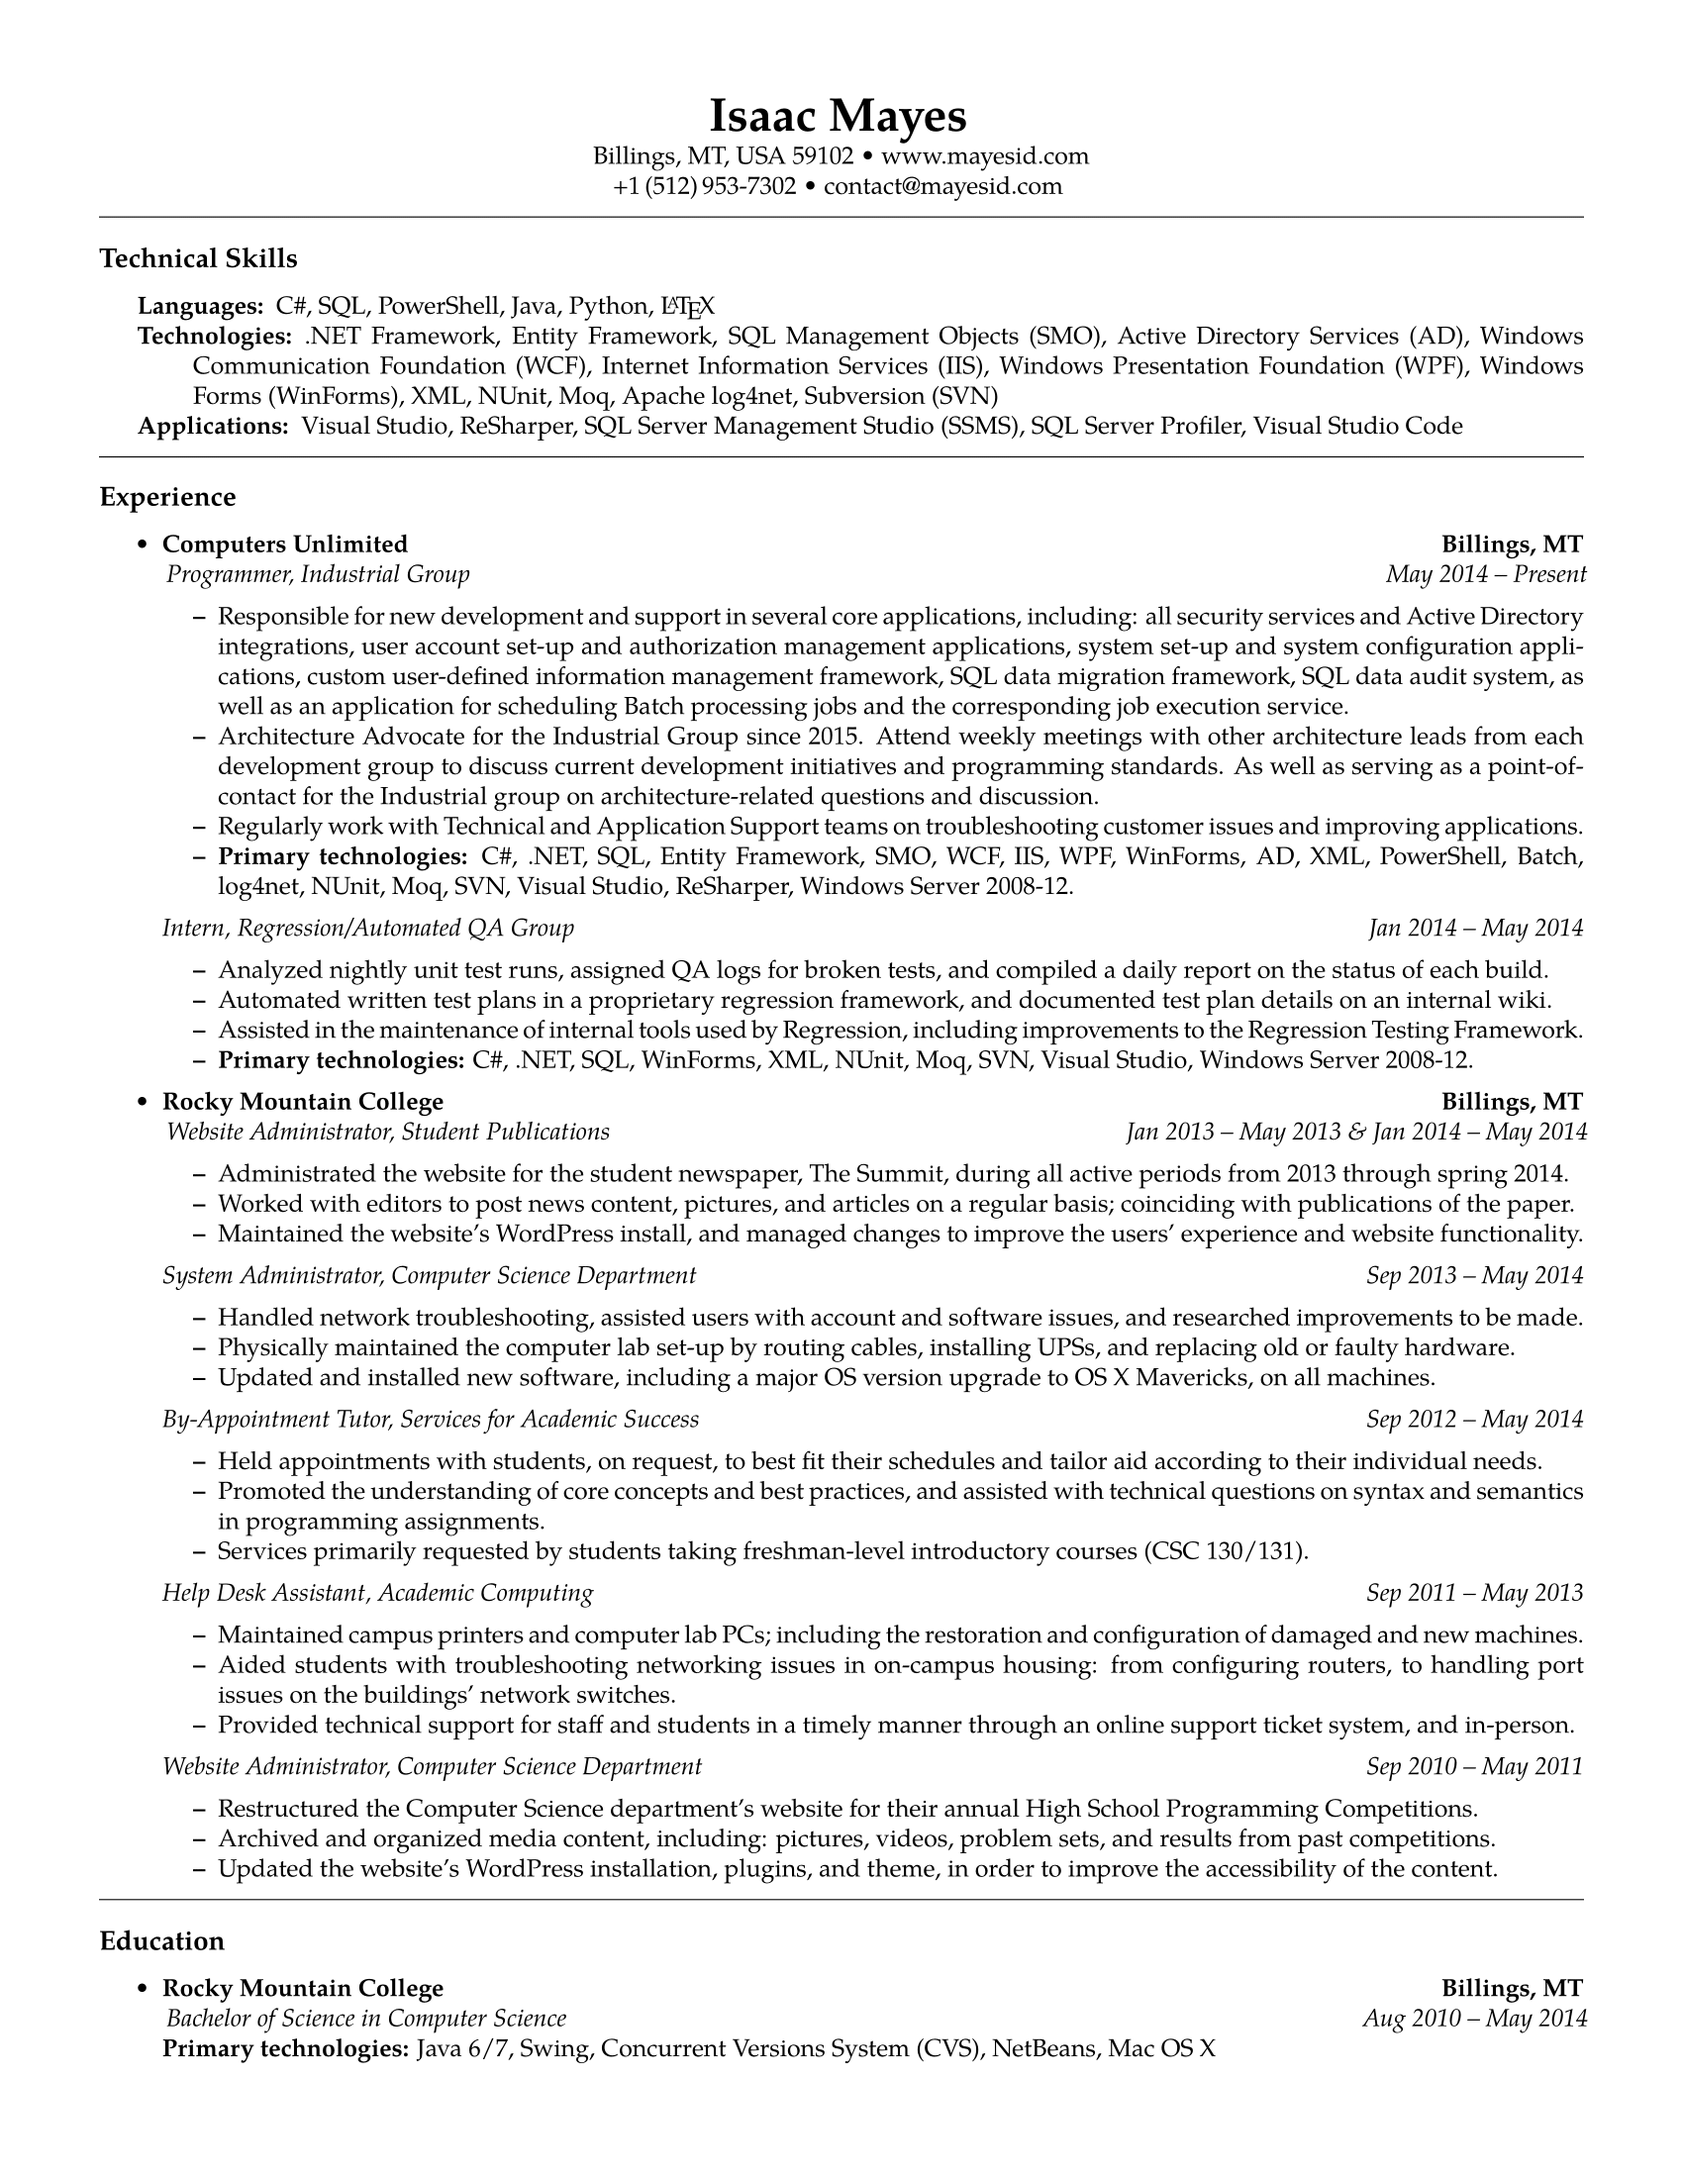
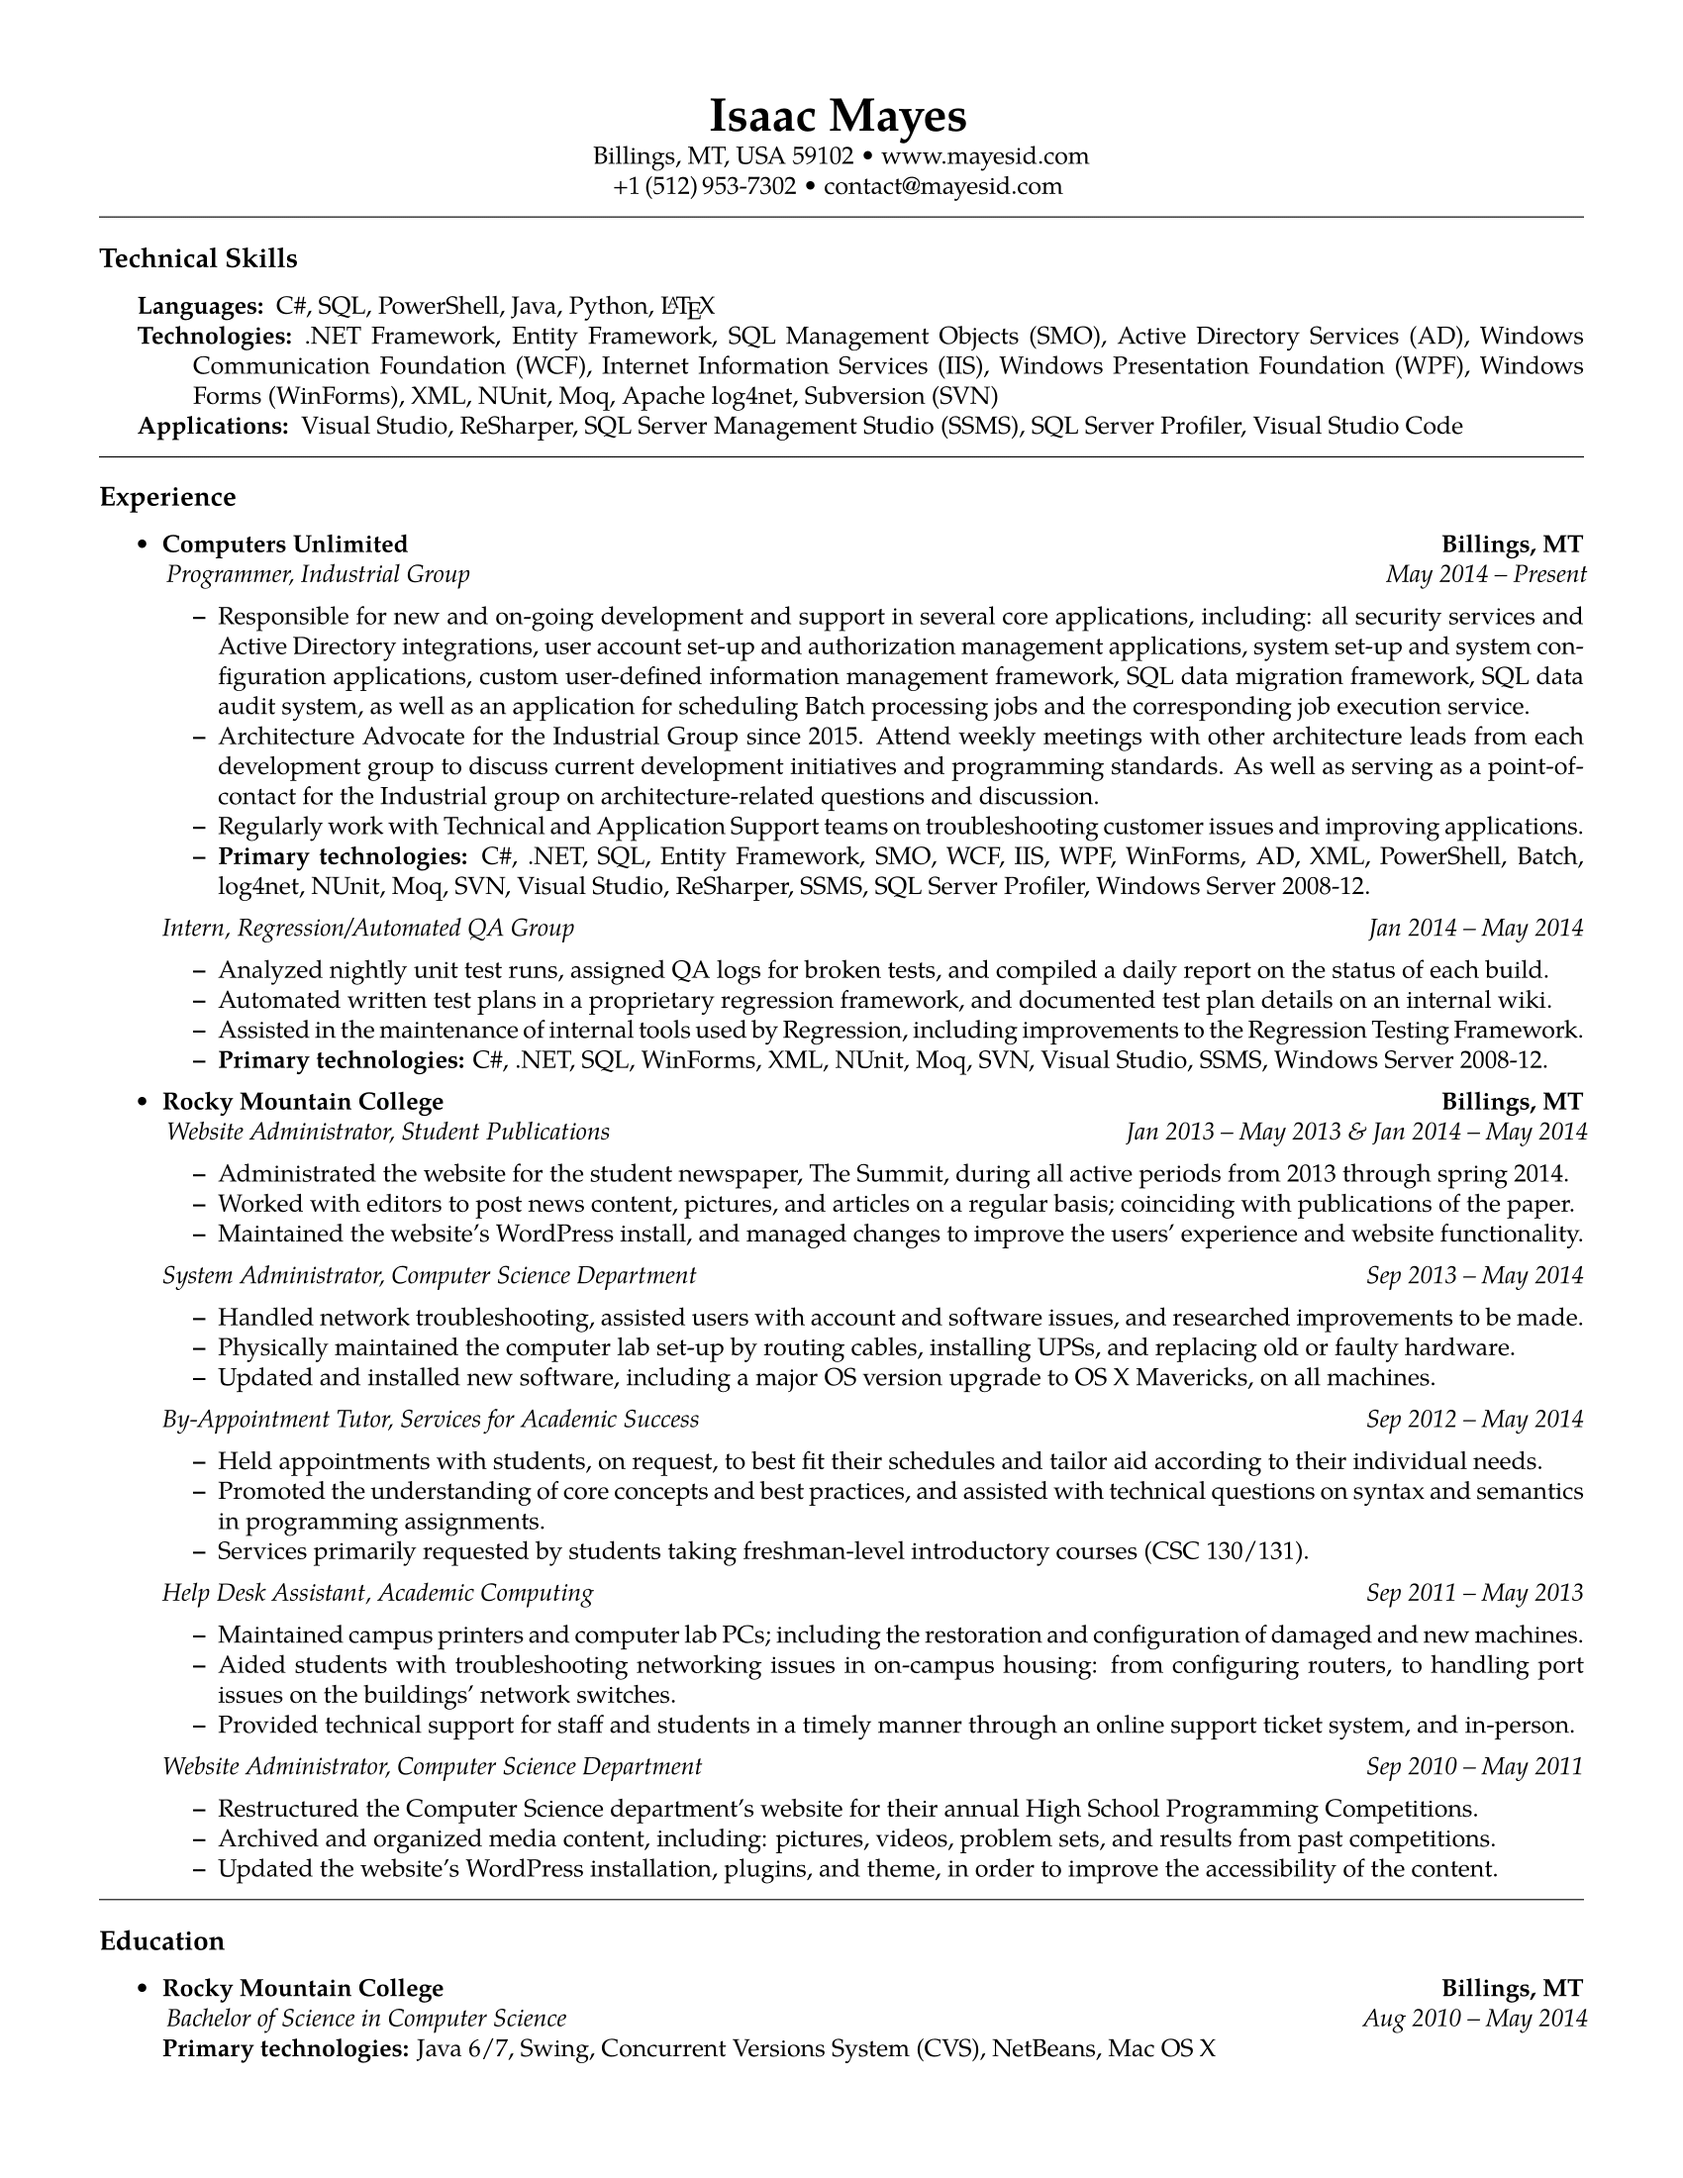
Noted additional technologies
* Added additional technologies to relevant 'Work Experience'.
* Regenerated resume PDF for the changes.
* Updated resume PNG for the changes.

Changed region(s): [[0.1247, 0.2782, 0.9353, 0.34], [0.4676, 0.4018, 0.6859, 0.4327], [0.7171, 0.4636, 0.8729, 0.4945]]

diff --git a/Resume_IsaacMayes.tex b/Resume_IsaacMayes.tex
@@ -133,10 +133,10 @@ breaklinks}
 		{\emph{Programmer, \href{http://www.cu.net/industrial}{Industrial Group}}}
 		{\emph{\DatestampYM{2014}{05} -- Present}}
 	\begin{itemize*}
-		\item Responsible for new development and support in several core applications, including: all security services and Active Directory integrations, user account set-up and authorization management applications, system set-up and system configuration applications, custom user-defined information management framework, SQL data migration framework, SQL data audit system, as well as an application for scheduling Batch processing jobs and the corresponding job execution service.
+		\item Responsible for new and on-going development and support in several core applications, including: all security services and Active Directory integrations, user account set-up and authorization management applications, system set-up and system configuration applications, custom user-defined information management framework, SQL data migration framework, SQL data audit system, as well as an application for scheduling Batch processing jobs and the corresponding job execution service.
 		\item Architecture Advocate for the Industrial Group since 2015. Attend weekly meetings with other architecture leads from each development group to discuss current development initiatives and programming standards. As well as serving as a point-of-contact for the Industrial group on architecture-related questions and discussion.
 		\item Regularly work with Technical and Application Support teams on troubleshooting customer issues and improving applications.
-		\item \textbf{Primary technologies:} C\#, .NET, SQL, Entity Framework, SMO, WCF, IIS, WPF, WinForms, AD, XML, PowerShell, Batch, log4net, NUnit, Moq, SVN, Visual Studio, ReSharper, Windows Server 2008-12.
+		\item \textbf{Primary technologies:} C\#, .NET, SQL, Entity Framework, SMO, WCF, IIS, WPF, WinForms, AD, XML, PowerShell, Batch, log4net, NUnit, Moq, SVN, Visual Studio, ReSharper, SSMS, SQL Server Profiler, Windows Server 2008-12.
 	\end{itemize*}
 	\pdfbookmark[3]{Regression Intern}{PDF:RegressionIntern}	
 	\headerrow
@@ -146,7 +146,7 @@ breaklinks}
 		\item Analyzed nightly unit test runs, assigned QA logs for broken tests, and compiled a daily report on the status of each build.
 		\item Automated written test plans in a proprietary regression framework, and documented test plan details on an internal wiki.
 		\item Assisted in the maintenance of internal tools used by Regression, including improvements to the Regression Testing Framework.
-		\item \textbf{Primary technologies:} C\#, .NET, SQL, WinForms, XML, NUnit, Moq, SVN, Visual Studio, Windows Server 2008-12.
+		\item \textbf{Primary technologies:} C\#, .NET, SQL, WinForms, XML, NUnit, Moq, SVN, Visual Studio, SSMS, Windows Server 2008-12.
 	\end{itemize*}
 
 	\item
